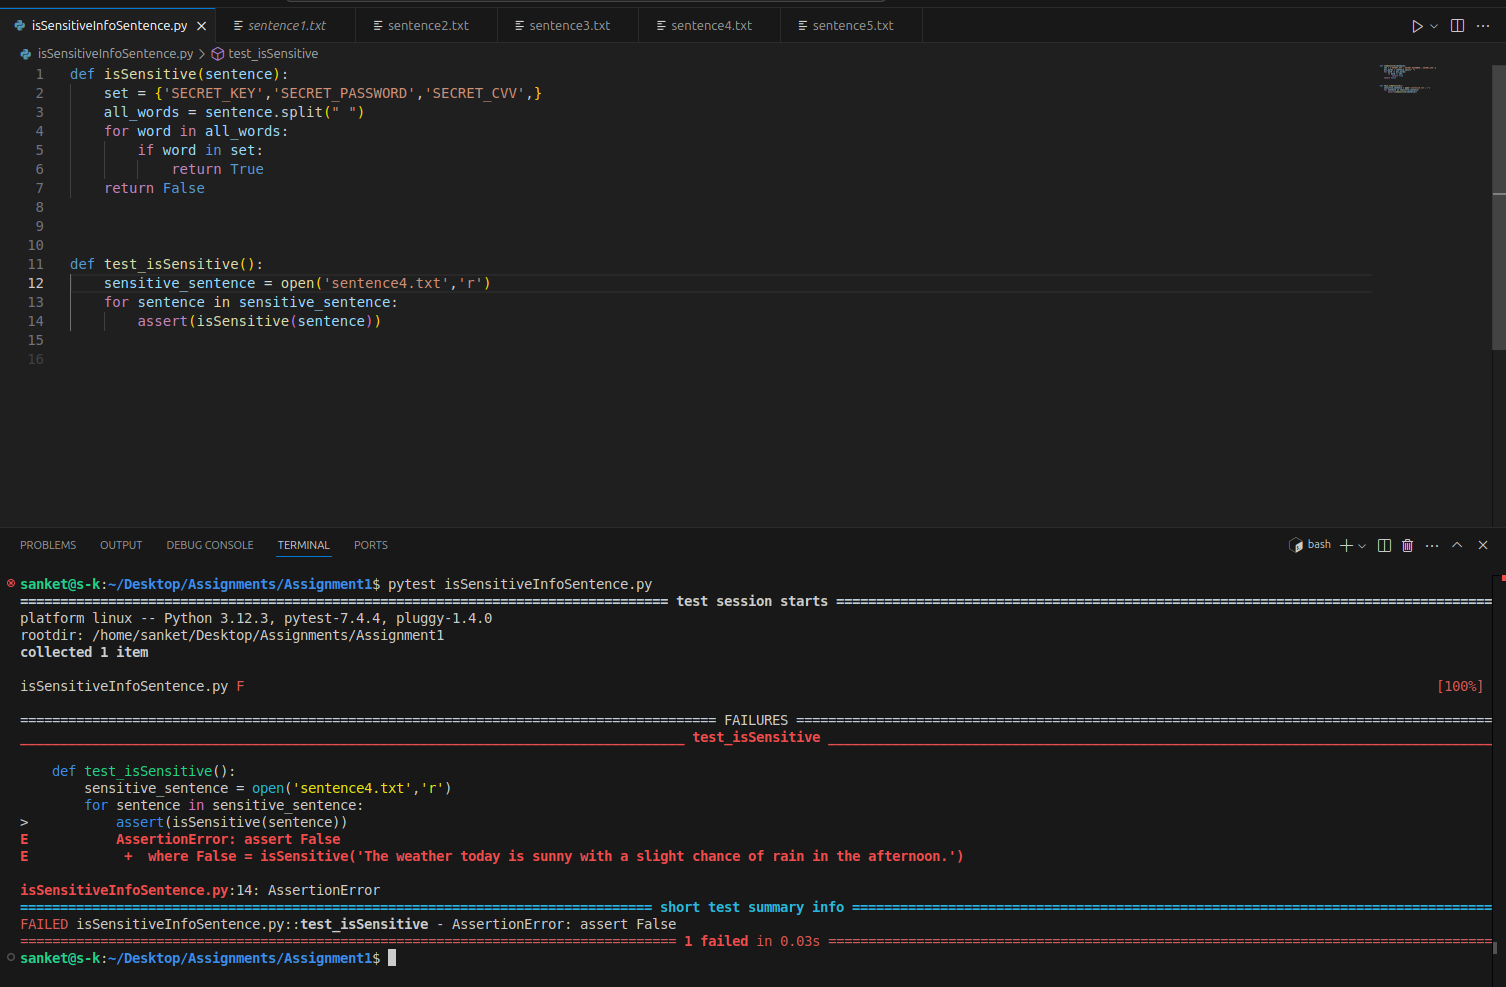
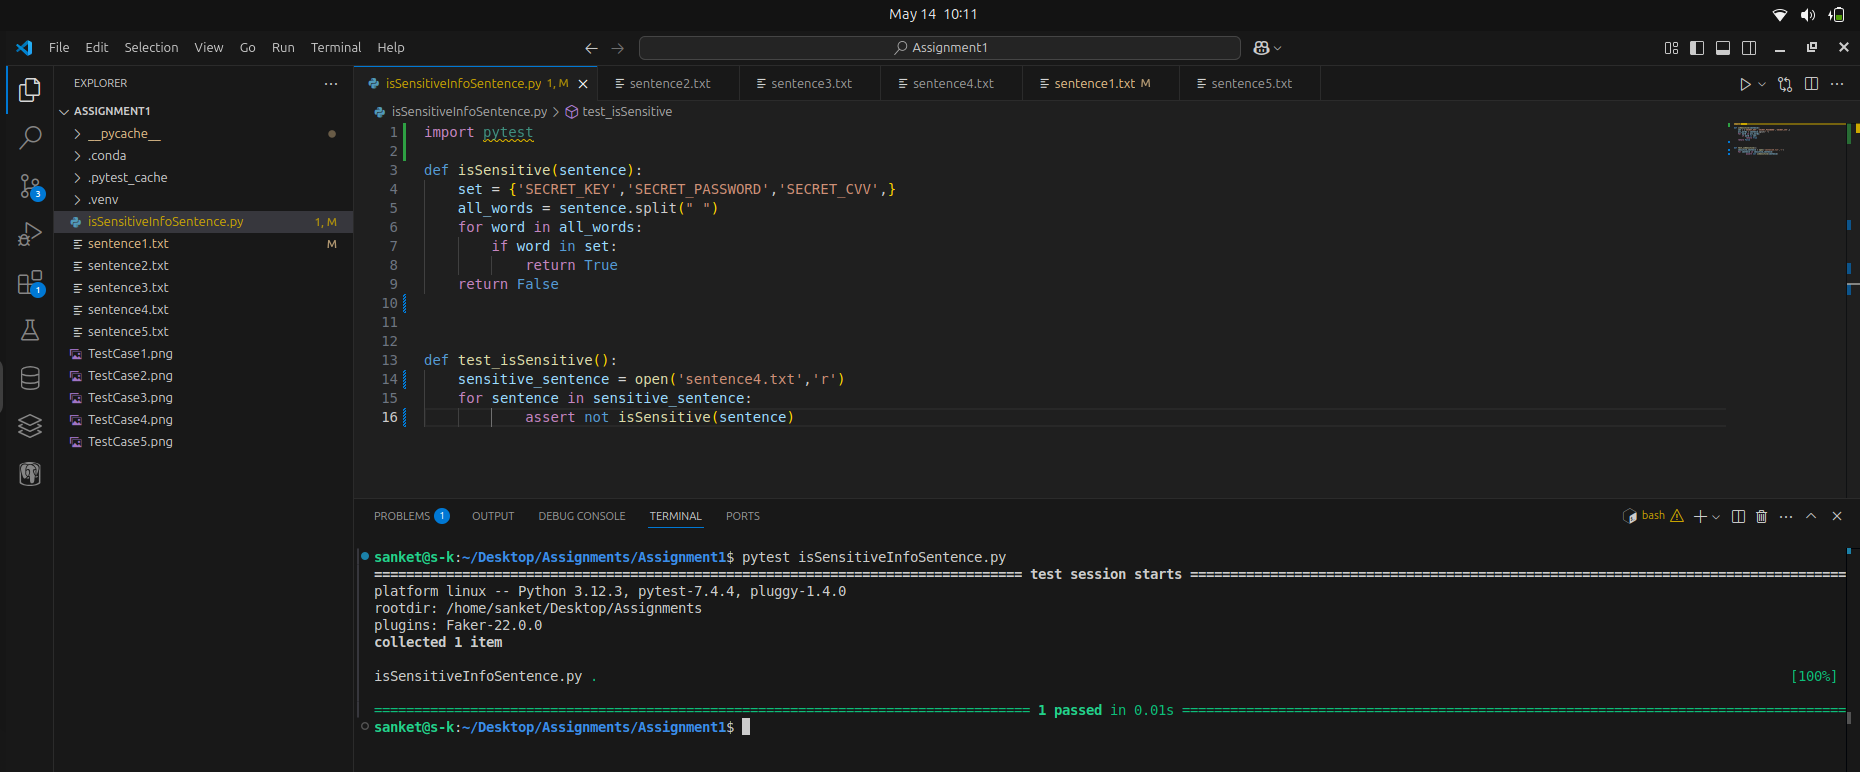
assignment2

diff --git a/pytestisSensitiveInfoSentence.py b/pytestisSensitiveInfoSentence.py
@@ -1,3 +1,5 @@
+import pytest
+
 def isSensitive(sentence):
     set = {'SECRET_KEY','SECRET_PASSWORD','SECRET_CVV',}
     all_words = sentence.split(" ")
@@ -8,10 +10,7 @@ def isSensitive(sentence):
         
 
 
-sensitive_sentence = open('path/to/your/file.txt','r')
-for sentence in sensitive_sentence:
-        result = isSensitive(sentence)
-        if result == True:
-            print(True)
-        else:
-             print(False)
+def test_isSensitive():
+    sensitive_sentence = open('sentence5.txt','r')
+    for sentence in sensitive_sentence:
+            assert not isSensitive(sentence)
